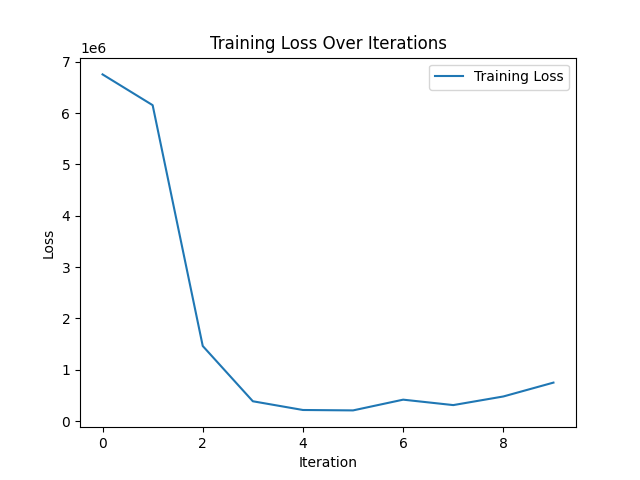
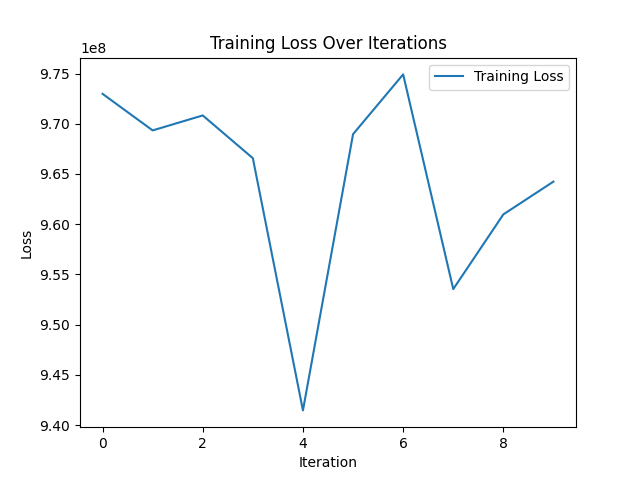
Cleaned main files from old code

diff --git a/abm_nets.py b/abm_nets.py
@@ -19,38 +19,6 @@ from agent_torch.populations import astoria
 from agent_torch.core.executor import Executor
 from agent_torch.core.dataloader import LoadPopulation
 
-def task_loss(Y_sched, Y_actual, params):
-    # return (params["gamma_under"] * torch.clamp(Y_actual - Y_sched, min=0) + 
-    #         params["gamma_over"] * torch.clamp(Y_sched - Y_actual, min=0) + 
-    #         0.5 * (Y_sched - Y_actual)**2).mean()
-    under_loss = params["c_b"] * torch.clamp(Y_actual - Y_sched, min=0)
-    over_loss = params["c_h"] * torch.clamp(Y_sched - Y_actual, min=0)
-    under_loss_squared = params["q_b"] * torch.clamp((Y_actual - Y_sched)**2, min=0)
-    over_loss_squared = params["q_h"] * torch.clamp((Y_sched - Y_actual)**2, min=0)
-    total_loss = (under_loss + over_loss + over_loss_squared + under_loss_squared).mean() * len(under_loss)
-    return total_loss
-    # return mse_loss.mean()
-
-def task_test(Y_sched, Y_actual, params):
-    # return (params["gamma_under"] * torch.clamp(Y_actual - Y_sched, min=0) + 
-    #         params["gamma_over"] * torch.clamp(Y_sched - Y_actual, min=0) + 
-    #         0.5 * (Y_sched - Y_actual)**2).mean()
-    under_loss = params["c_b"] * torch.clamp(Y_actual - Y_sched, min=0)
-    over_loss = params["c_h"] * torch.clamp(Y_sched - Y_actual, min=0)
-    under_loss_squared = params["q_b"] * torch.clamp((Y_actual - Y_sched)**2, min=0)
-    over_loss_squared = params["q_h"] * torch.clamp((Y_sched - Y_actual)**2, min=0)
-    total_loss = (under_loss + over_loss + over_loss_squared + under_loss_squared)
-    return total_loss
-
-def rmse_loss(Y_sched, Y_actual):
-    error = (Y_actual - Y_sched)**2
-    error = torch.mean(error)
-    return torch.sqrt(error)
-
-def rmse_test(Y_sched, Y_actual):
-    error = (Y_actual - Y_sched)**2
-    return torch.sqrt(error.detach())
-
 
 class LearnableParams(nn.Module):
     def __init__(self, num_params, device='cpu'):
@@ -73,9 +41,9 @@ class LearnableParams(nn.Module):
         out = self.ReLU(self.fc2(out))
         out = self.fc3(out)
         ''' bound output '''
-        # out = self.min_values + (self.max_values -
-        #                          self.min_values) * self.sigmoid(out)
-        out = self.sigmoid(out)
+        out = self.min_values + (self.max_values -
+                                 self.min_values) * self.sigmoid(out)
+        # out = self.sigmoid(out)
         return out
 
 def map_and_replace_tensor(input_string):
@@ -135,7 +103,7 @@ def execute(runner, Y_actual, params, n_steps=28):
     total_loss = (under_loss + over_loss + over_loss_squared + under_loss_squared).mean() * len(under_loss)
     return total_loss
 
-def eval_net(which, variables, params, save_folder, loss_func, ic):
+def eval_net(params, loss_func):
 
     if (loss_func == 'task'):
         print("Training wiht task loss")
@@ -145,8 +113,9 @@ def eval_net(which, variables, params, save_folder, loss_func, ic):
         print("Error")
         return 
     
-    sim = Executor(covid, pop_loader=LoadPopulation(astoria))
+    sim = Executor(covid_abm, pop_loader=LoadPopulation(astoria))
     runner = sim.runner
+    print(runner.config)
     runner.init()
     learnable_params = [(name, param) for (name, param) in runner.named_parameters()]
 

diff --git a/main.py b/main.py
@@ -21,11 +21,6 @@ import model_classes, new_nets, abm_nets
 from constants import *
 
 
-# import sys
-# from IPython.core import ultratb
-# sys.excepthook = ultratb.FormattedTB(mode='Verbose',
-#      color_scheme='Linux', call_pdb=1)
-
 def main():
     parser = argparse.ArgumentParser(
         description='Run electricity scheduling task net experiments.')
@@ -37,19 +32,6 @@ def main():
         metavar="loss_function", help="Choose the loss function to train with, use task or rmse")
     args = parser.parse_args()
 
-    # Train, test split.
-
-    df = pd.read_csv("data.csv", parse_dates = ["date"])
-    date_list = df['date'].values
-    hospitalization_number = df['hosp'].values
-
-    splitting_data_point = int(len(hospitalization_number) * .8)
-    training_data = hospitalization_number[:splitting_data_point]
-    testing_data = hospitalization_number[splitting_data_point:]
-    Y_train = torch.tensor(training_data, dtype=torch.float, device=DEVICE)
-    Y_test = torch.tensor(testing_data, dtype=torch.float, device=DEVICE)
-    
-    variables_rmse = {'Y_train': Y_train, 'Y_test': Y_test}
 
     base_save = 'results' if args.save is None else '{}-results'.format(args.save)
     for run in range(args.nRuns):
@@ -59,29 +41,11 @@ def main():
         if not os.path.exists(save_folder):
             os.makedirs(save_folder)
 
-        # Generation scheduling problem params.
         params = {"n": 24, "c_ramp": 0.4, "gamma_under": 50, "gamma_over": 0.5, "c_b": 10, "c_h": 1, "q_b": 2, "q_h": 0.5}
-
-        # Run and eval rmse-minimizing net
-        
-        # if USE_GPU:
-        #     model_rmse = model_rmse.cuda()
-
-
-        #Loop for testing
-        # E_test = [2000.0, 2250.0, 2500.0, 2750.0]
-        # Ia_test = [5000.0, 10000.0, 15000.0, 20000.0]
-        # I_test = [15.0, 20.0, 25.0]
-
-        # for E in E_test:
-        #     for Ia in Ia_test:
-        #         for I in I_test:
-        #             ic = [E, Ia, I]
-        #             new_nets.eval_net("rmse_net", variables_rmse, params, save_folder, args.loss, ic)
             
 
         initial_conditions = [1000.0, 30000.0, 50.0]
-        abm_nets.eval_net("rmse_net", variables_rmse, params, save_folder, args.loss, initial_conditions)
+        abm_nets.eval_net(params, args.loss)
 
 
 

diff --git a/agent_torch/models/covid_abm/substeps/new_transmission/transition.py b/agent_torch/models/covid_abm/substeps/new_transmission/transition.py
@@ -123,10 +123,10 @@ class NewTransmission(SubstepTransitionMessagePassing):
             recover_indices = torch.randperm(len(susceptible_indices))[:num_recoveries]
             susceptible_to_recover = susceptible_indices[recover_indices]
             
-            updated_stages = current_stages.clone()
+            updated_stages = current_stages
             updated_stages[susceptible_to_recover] = self.RECOVERED_VAR
         else:
-            updated_stages = current_stages.clone()
+            updated_stages = current_stages
         
         return updated_stages
 
